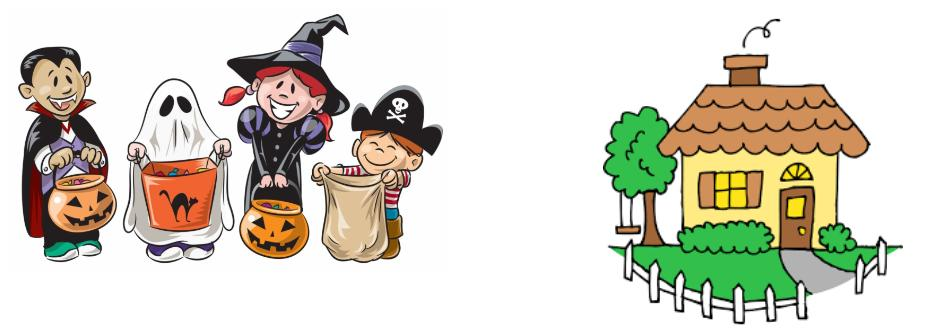
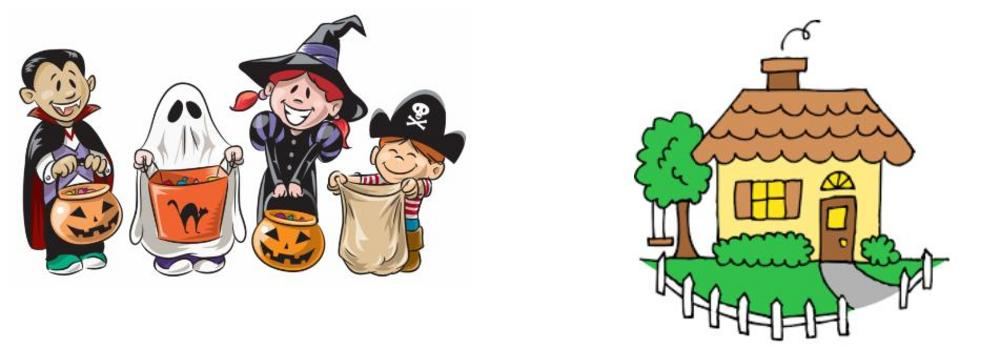
Halloween article

diff --git a/_posts/2019-10-31-scenario-social-pour-halloween.md b/_posts/2019-10-31-scenario-social-pour-halloween.md
@@ -29,7 +29,7 @@ De la part de tous les membres de l'AsIAm, nous vous souhaitons un Joyeux Hallow
 
 Le jour d'Halloween, je m'habillerai avec un costume, je porterai peut-être du maquillage sur le visage et j'aurai un sac pour ramasser des friandises.
 
-<amp-img src="/assets/posts/2019-10-31/img1.jpg" layout="intrinsic" class="center" width="957" height="263" alt="Halloween 1"></amp-img>
+<amp-img src="/assets/posts/2019-10-31/img1.jpg" layout="intrinsic" class="center" width="1000" height="275" alt="Halloween 1"></amp-img>
 
 Je vais quitter ma maison et sortir dans le quartier.
 Je me dirige vers la maison de mes voisins.
@@ -37,32 +37,32 @@ Je vais frapper ou sonner à la porte et attendre qu'ils ouvrent.
 Je peux être nerveux à ce moment et être stressé à l'idée de parler à des personnes que je ne connais pas.
 C'est normal. Toutes les autres personnes personnes fêtant Halloween ressentiront la même chose.
 
-<amp-img src="/assets/posts/2019-10-31/img2.jpg" layout="intrinsic" class="center" width="942" height="325" alt="Halloween 2"></amp-img>
+<amp-img src="/assets/posts/2019-10-31/img2.jpg" layout="intrinsic" class="center" width="1000" height="345" alt="Halloween 2"></amp-img>
 
 
 Lorsque le voisin ouvrira la porte, je dirai «&nbsp;des bonbons ou un sort&nbsp;».
 Le voisin peut me poser des questions sur mon costume. Ensuite, ils mettra des bonbons dans mon sac de friandises. 
 Je dirai merci avant de partir.
 
-<amp-img src="/assets/posts/2019-10-31/img3.jpg" layout="intrinsic" class="center" width="986" height="279" alt="Halloween 3"></amp-img>
+<amp-img src="/assets/posts/2019-10-31/img3.jpg" layout="intrinsic" class="center" width="1000" height="283" alt="Halloween 3"></amp-img>
 
 Je verrai d'autres personnes déguisées pour Halloween. Certains peuvent avoir des costumes drôles et d'autres peuvent être effrayants.
 S'ils sont effrayants, je ne m'inquièterai pas et me souviendrai que ce ne sont que des costumes.
 
-<amp-img src="/assets/posts/2019-10-31/img4.jpg" layout="intrinsic" class="center" width="767" height="668" alt="Halloween 4"></amp-img>
+<amp-img src="/assets/posts/2019-10-31/img4.jpg" layout="intrinsic" class="center" width="1000" height="871" alt="Halloween 4"></amp-img>
 
 J'irai ensuite chez quelqu'un d'autre et je ferai la même chose.
 Je frapperai à la porte, j'attendrai qu'ils me réponde, je dirai «&nbsp;des bonbons ou un sort&nbsp;», et j'aurai quelques bonbons.
 Lorsque j'aurai terminé, je rentrerai chez moi.
 
-<amp-img src="/assets/posts/2019-10-31/img5.jpg" layout="intrinsic" class="center" width="951" height="332" alt="Halloween 5"></amp-img>
+<amp-img src="/assets/posts/2019-10-31/img5.jpg" layout="intrinsic" class="center" width="1000" height="349" alt="Halloween 5"></amp-img>
 
 Lorsque j'arriverai chez moi, je pourrais manger les friandises que j'aurais recueillies.
 Je pourrais aussi enlever mon costume si je le souhaite.
 
-<amp-img src="/assets/posts/2019-10-31/img6.jpg" layout="intrinsic" class="center" width="927" height="414" alt="Halloween 6"></amp-img>
+<amp-img src="/assets/posts/2019-10-31/img6.jpg" layout="intrinsic" class="center" width="1000" height="447" alt="Halloween 6"></amp-img>
 
 Je pourrais également jouer à des jeux d'Halloween avec mes amis et ma famille. 
 
-<amp-img src="/assets/posts/2019-10-31/img7.jpg" layout="intrinsic" class="center" width="946" height="371" alt="Halloween 7"></amp-img>
+<amp-img src="/assets/posts/2019-10-31/img7.jpg" layout="intrinsic" class="center" width="1000" height="392" alt="Halloween 7"></amp-img>
 
